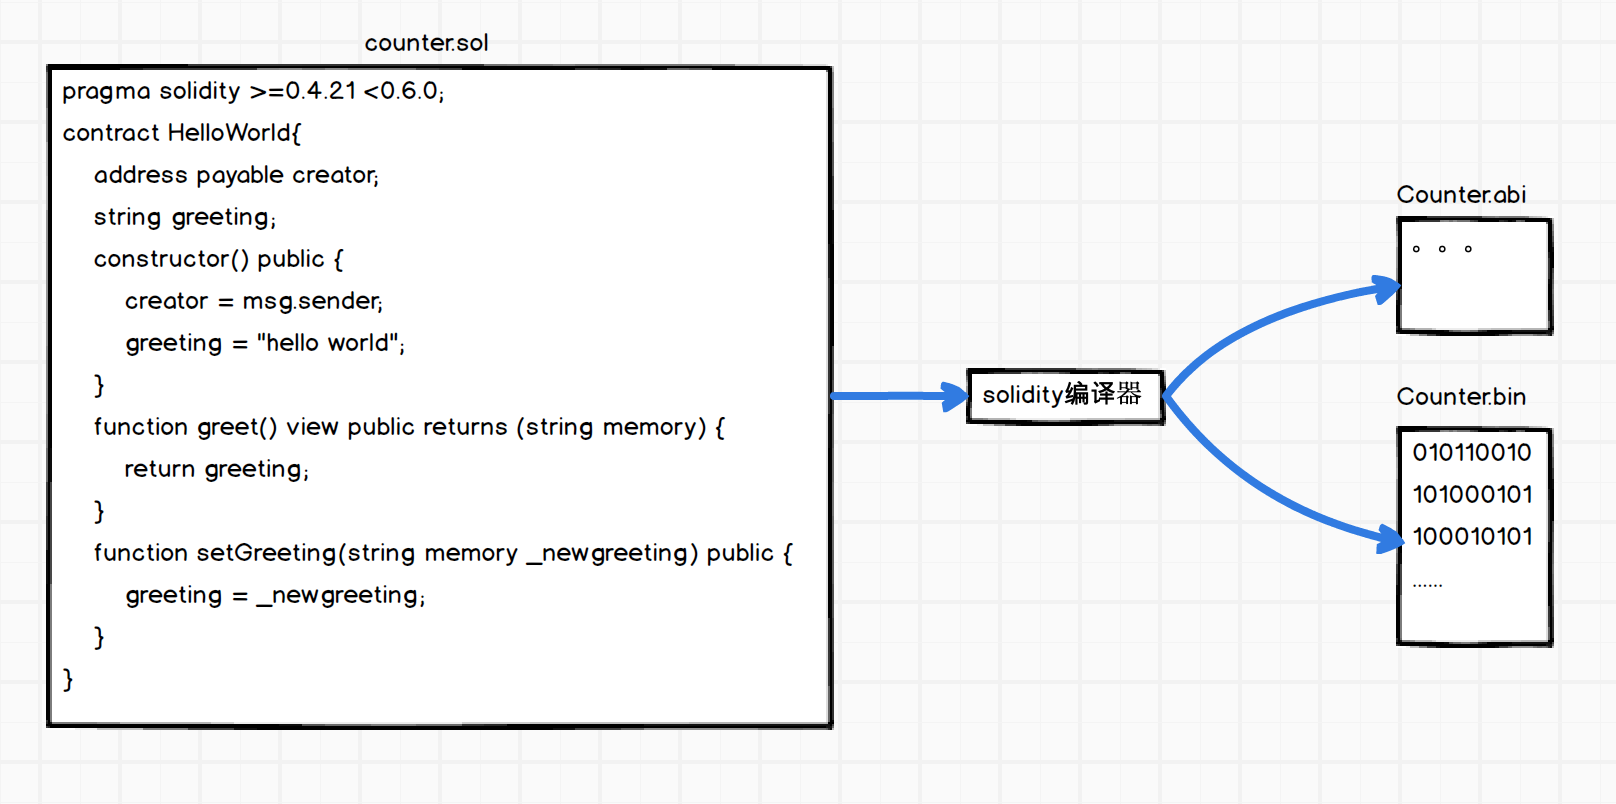
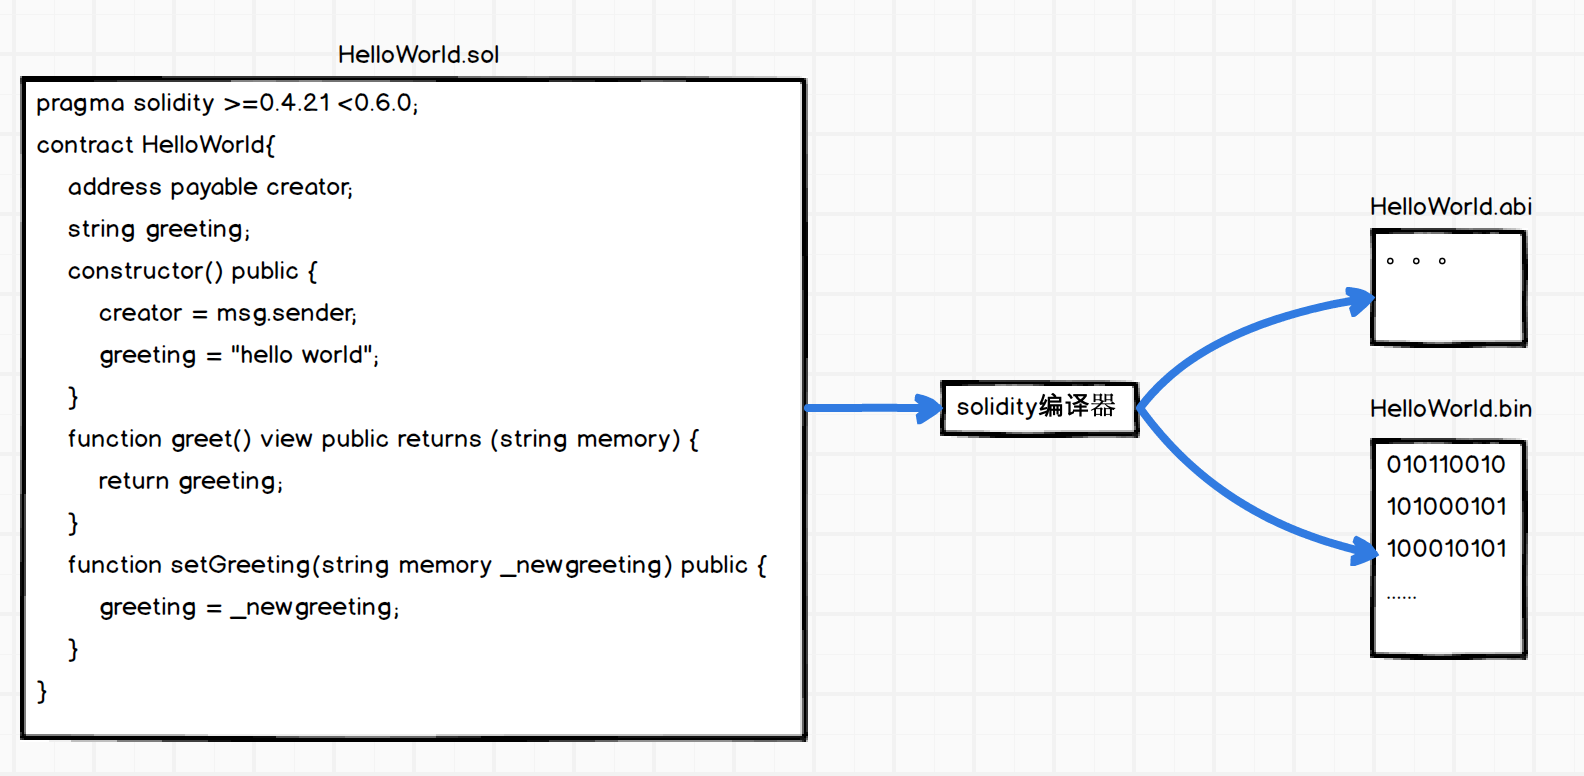
update

Changed region(s): [[0.0, 0.0309, 0.9899, 0.9588]]

diff --git a/blockchain/ethereum/以太坊智能合约---工作原理.md b/blockchain/ethereum/以太坊智能合约---工作原理.md
@@ -1,7 +1,7 @@
 
 
 ### 一、什么叫智能合约
-
+智能合约其实不是合约也不智能，只是它能跑着区块链上的代码。
 
 ### 二、智能合约语言  
 * Solidity  
@@ -18,20 +18,30 @@
 ### 三、智能合约的编译
 ![solidity编译过程](https://github.com/jxu86/technique-architect/blob/master/file/solidity编译过程.png)
 
+如上图合约文件Helloworld.sol经过编译器编译生成Helloworld.abi和Helloworld.bin文件。
+```
+solc helloworld.sol --abi --bin -o ./
+```
+* ABI文件可以简单看作是合约的接口描述文件，具体见[以太坊智能合约---ABI](https://github.com/jxu86/technique-architect/blob/master/blockchain/ethereum/以太坊智能合约---ABI.md)  
+* bin文件可以看作是一个二进制文件，这二进制文件就是EVM指令的集合。
 
 
-### 三、智能合约运行过程
+### 四、合约的部署
+![合约部署流程图](https://github.com/jxu86/technique-architect/blob/master/file/合约部署流程图.png)  
+如上图，合约的部署跟发送一笔交易是一样的操作，调用transaction函数，from为发布者的地址，to为0，data为合约的evm操作码。在矿工打包的时候会生成智能合约地址。智能合约地址的生成是由创建者的账号和发送的交易数作为随机数输入，通过Kecca-256加密算法重新创建一个地址作为账号。也就是说最后合约地址对应合约的代码会保存在区块链数据库。调用者只需要有合约地址和abi文件就可以调用合约的代码。  
 
 
+### 五、合约的调用
+![合约调用流程图](https://github.com/jxu86/technique-architect/blob/master/file/合约调用流程图.png)
 
+* 要调用合约需要合约的地址和合约的方法 
+* 智能合约是部署在区块链的代码，区块链本身不能执行代码，代码的执行是在本地的EVM中，实际上，部署在区块链上代码是能够在本地产生原智能合约代码的代码，可以理解区块链为一个数据库，而客户端从数据库中读取了存储的运行代码，并在本地运行后，将结果写入到了区块链这个数据库中。
 
-
-[一次搞懂「以太坊智能合约」如何运作](https://www.zuocoin.com/a/news/experience/2019/0825/63017.html)
-
-[图解以太坊智能合约中的概念](https://www.jianshu.com/p/9bca56e67d6e)
-
-[【译】完全理解以太坊智能合约](https://learnblockchain.cn/2018/01/04/understanding-smart-contracts/)
-
-[[以太坊源代码分析] I.区块和交易，合约和虚拟机](https://blog.csdn.net/teaspring/article/details/75389151)
-
-[EVM 以太坊虚拟机](https://fisco-bcos-documentation.readthedocs.io/zh_CN/latest/docs/design/virtual_machine/evm.html)
+参考:  
+[一次搞懂「以太坊智能合约」如何运作](https://www.zuocoin.com/a/news/experience/2019/0825/63017.html)  
+[图解以太坊智能合约中的概念](https://www.jianshu.com/p/9bca56e67d6e)  
+[【译】完全理解以太坊智能合约](https://learnblockchain.cn/2018/01/04/understanding-smart-contracts/)  
+[[以太坊源代码分析] I.区块和交易，合约和虚拟机](https://blog.csdn.net/teaspring/article/details/75389151)  
+[EVM 以太坊虚拟机](https://fisco-bcos-documentation.readthedocs.io/zh_CN/latest/docs/design/virtual_machine/evm.html)  
+[区块链开发（二）部署和运行第一个以太坊智能合约](https://blog.csdn.net/sportshark/article/details/52249607)  
+[以太坊虚拟机（EVM）底层原理及性能缺陷](https://abelsu7.top/2018/02/28/ethereum-virtual-machine/)  

diff --git a/blockchain/ethereum/以太坊智能合约安全.md b/blockchain/ethereum/以太坊智能合约安全.md
@@ -34,3 +34,7 @@ https://github.com/ConsenSys/mythril
 [深度解析Solidity的17个坑及超详细避坑指南](https://cloud.tencent.com/developer/article/1192548)
 
 http://cw.hubwiz.com/card/c/solidity-0.5-manual/1/5/3/
+
+https://github.com/ConsenSys/surya
+
+[以太坊开发者工具的最新清单](https://segmentfault.com/a/1190000018273989)

diff --git a/blockchain/ethereum/深入了解以太坊虚拟机.md b/blockchain/ethereum/深入了解以太坊虚拟机.md
@@ -18,3 +18,4 @@
 
 [EVM指令集](https://gist.github.com/hayeah/bd37a123c02fecffbe629bf98a8391df)
 
+[以太坊智能合约虚拟机(EVM)原理与实现](https://blog.csdn.net/mongo_node/article/details/80216079)

diff --git a/blockchain/ethereum/solidity/Solidity编译器源码解析.md b/blockchain/ethereum/solidity/Solidity编译器源码解析.md
@@ -1,0 +1,9 @@
+
+
+
+
+
+
+
+参考:  
+[Solidity编译器源码解析](https://www.jianshu.com/p/4bcc1e9f19b4)
